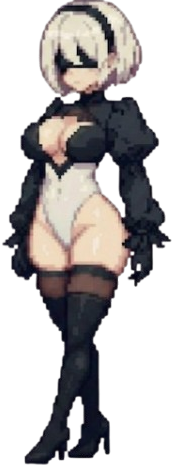
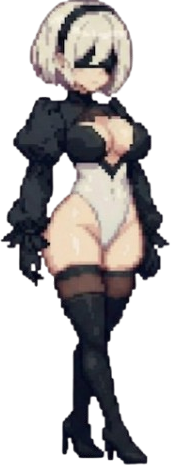
feat: add facing direction logic for player and enemy; update rendering accordingly

diff --git a/js/systems/RenderSystem.js b/js/systems/RenderSystem.js
@@ -43,8 +43,17 @@ export class RenderSystem {
     renderEnemies(enemies) {
         for (const enemy of enemies) {
             const enemyImage = this.imageManager.get(enemy.data.image);
+            
             if (enemyImage) {
-                this.ctx.drawImage(enemyImage, enemy.x, enemy.y, enemy.width, enemy.height);
+                this.ctx.save();
+                if (enemy.facingLeft) {
+                    this.ctx.translate(enemy.x + enemy.width, enemy.y);
+                    this.ctx.scale(-1, 1);
+                    this.ctx.drawImage(enemyImage, 0, 0, enemy.width, enemy.height);
+                } else {
+                    this.ctx.drawImage(enemyImage, enemy.x, enemy.y, enemy.width, enemy.height);
+                }
+                this.ctx.restore();
             } else {
                 // fallback
                 this.ctx.fillStyle = enemy.data.color;
@@ -55,8 +64,17 @@ export class RenderSystem {
 
     renderPlayer(player) {
         const playerImage = this.imageManager.get("player");
+
         if (playerImage) {
-            this.ctx.drawImage(playerImage, player.x, player.y, player.width, player.height);
+            this.ctx.save();
+            if (player.facingLeft) {
+                this.ctx.translate(player.x + player.width, player.y);
+                this.ctx.scale(-1, 1);
+                this.ctx.drawImage(playerImage, 0, 0, player.width, player.height);
+            } else {
+                this.ctx.drawImage(playerImage, player.x, player.y, player.width, player.height);
+            }
+            this.ctx.restore();
         } else {
             // fallback
             this.ctx.fillStyle = "#1a1a2e";

diff --git a/js/entities/Player.js b/js/entities/Player.js
@@ -11,6 +11,8 @@ export class Player {
 
         // Multipliers (for upgrades)
         this.speedMultiplier = 1;
+
+        this.facingLeft = false;
     }
 
     reset() {
@@ -27,6 +29,9 @@ export class Player {
         if (keys["s"] || keys["arrowdown"]) dy += 1;
         if (keys["a"] || keys["arrowleft"]) dx -= 1;
         if (keys["d"] || keys["arrowright"]) dx += 1;
+
+        // Update facing direction based on movement
+        if (dx !== 0) this.facingLeft = dx < 0;
 
         if (dx || dy) {
             // normalize diagonal vector

diff --git a/js/entities/Enemy.js b/js/entities/Enemy.js
@@ -18,6 +18,7 @@ export class Enemy {
         this.collisionRadius = data.collisionRadius;
 
         this.active = false;
+        this.facingLeft = false;
     }
 
     spawn(x, y) {
@@ -49,6 +50,13 @@ export class Enemy {
             return;
         }
 
+        // Update facing direction based on movement
+        const oldX = this.x;
         this.behaviour.update(this, dt, player);
+        if (this.x < oldX) {
+            this.facingLeft = true;
+        } else {
+            this.facingLeft = false;
+        }
     }
 }
